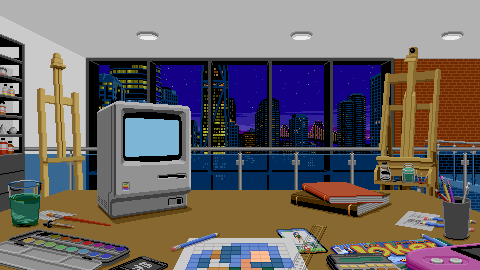
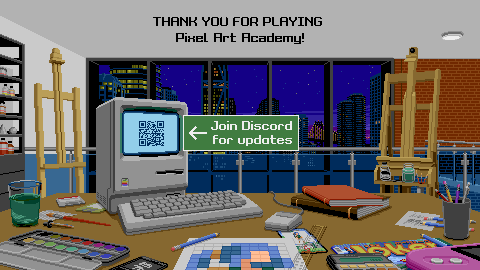
Kiosk mode changes.

diff --git a/packages/pixelartacademy-learnmode/menu/items/items.html b/packages/pixelartacademy-learnmode/menu/items/items.html
@@ -25,14 +25,12 @@
           <li class="menu-item"><span class="progress actionable">Progress</span></li>
         {{/if}}
         <li class="menu-item"><span class="settings actionable">Settings</span></li>
-        {{#if extrasVisible}}
-          <li class="menu-item"><span class="extras actionable">Extras</span></li>
-        {{/if}}
+        <li class="menu-item"><span class="ending actionable">Join Discord</span></li>
         {{#if quitToMenuVisible}}
           <li class="menu-item"><span class="quit-to-menu actionable">Quit to menu</span></li>
         {{else}}
           {{#if isElectron}}
-            <li class="menu-item"><span class="quit actionable">Quit</span></li>
+            <!-- TODO: No quit in kiosk mode. li class="menu-item"><span class="quit actionable">Quit</span></li -->
           {{/if}}
         {{/if}}
       </ul>
@@ -43,14 +41,14 @@
           Language: English
         </li -->
         {{#unless isBrowser}}
-          <li class="menu-item"><span class="fullscreen actionable">
+          <!-- TODO: Can't exit fullscreen li class="menu-item"><span class="fullscreen actionable">
             Fullscreen:
             {{#if isFullscreen}}
               on
             {{else}}
               off
             {{/if}}
-          </span></li>
+          </span></li -->
         {{/unless}}
         <li class="graphics-scale menu-item">
           Pixel scale:
@@ -64,14 +62,14 @@
           {{/if}}
           <button class="next-button actionable">▶</button>
         </li>
-        <li class="menu-item"><span class="audio actionable">
+        <!-- TODO: Can't disable audio li class="menu-item"><span class="audio actionable">
           Audio:
           {{#if $is audioEnabled 'On'}}on{{/if}}
           {{#if isBrowser}}
             {{#if $is audioEnabled 'Fullscreen'}}when fullscreen{{/if}}
           {{/if}}
           {{#if $is audioEnabled 'Off'}}off{{/if}}
-        </span></li>
+        </span></li-->
         {{> LandsOfIllusions.Components.Menu.Items.VolumeControls}}
         {{#if isBrowser}}
           <li class="menu-item"><span class="actionable permissions">Permissions</span></li>
@@ -82,8 +80,8 @@
     {{#if inExtras}}
       <ul class="extras menu">
         <li class="menu-item"><span class="courses actionable">Courses preview</span></li>
-        <li class="menu-item"><a class="actionable" href="https://store.steampowered.com/app/2330360/Pixel_Art_Academy_Learn_Mode" target="_blank">Wishlist on Steam</a></li>
-        <li class="menu-item"><a class="actionable" href="https://discord.gg/mngNfvTwG6" target="_blank">Join Discord</a></li>
+        <!-- TODO: li class="menu-item"><a class="actionable" href="https://store.steampowered.com/app/2330360/Pixel_Art_Academy_Learn_Mode" target="_blank">Wishlist on Steam</a></li>
+        <li class="menu-item"><a class="actionable" href="https://discord.gg/mngNfvTwG6" target="_blank">Join Discord</a></li -->
         <li class="menu-item"><span class="credits actionable">Credits</span></li>
         <li class="menu-item"><span class="back-to-menu actionable">Back</span></li>
       </ul>

diff --git a/packages/pixelartacademy-learnmode/demo/ending/ending.html b/packages/pixelartacademy-learnmode/demo/ending/ending.html
@@ -2,10 +2,10 @@
   <div class="pixelartacademy-learnmode-demo-ending">
     {{> LandsOfIllusions.Components.BackButton}}
     {{#LandsOfIllusions.Components.Overlay}}
-      <ul class="links">
+      <!-- TODO No links in kiosk mode ul class="links">
         <li class="link-area"><a class="link" target="_blank" href="https://store.steampowered.com/app/2330360/Pixel_Art_Academy_Learn_Mode">Wishlist on Steam</a></li>
         <li class="link-area"><a class="link" target="_blank"  href="https://discord.gg/mngNfvTwG6">Join Discord</a></li>
-      </ul>
+      </ul -->
     {{/LandsOfIllusions.Components.Overlay}}
   </div>
 </template>

diff --git a/packages/landsofillusions-ui/components/menu/menu.html b/packages/landsofillusions-ui/components/menu/menu.html
@@ -6,7 +6,7 @@
       {{/if}}
     </div>
     <div class="toolbar {{toolbarVisible}}">
-      <button class="toggle-audio-button {{audioEnabledClass}}"></button>
+      <!-- TODO: Can't disable audio button class="toggle-audio-button {{audioEnabledClass}}"></button -->
       {{#unless customShowMenu}}
         <button class="menu-button">Menu</button>
       {{/unless}}

diff --git a/packages/pixelartacademy-learnmode-app/package.js b/packages/pixelartacademy-learnmode-app/package.js
@@ -1,6 +1,6 @@
 Package.describe({
   name: 'retronator:pixelartacademy-learnmode-app',
-  version: '0.7.0',
+  version: '0.7.2',
   // Brief, one-line summary of the package.
   summary: '',
   // URL to the Git repository containing the source code for this package.
